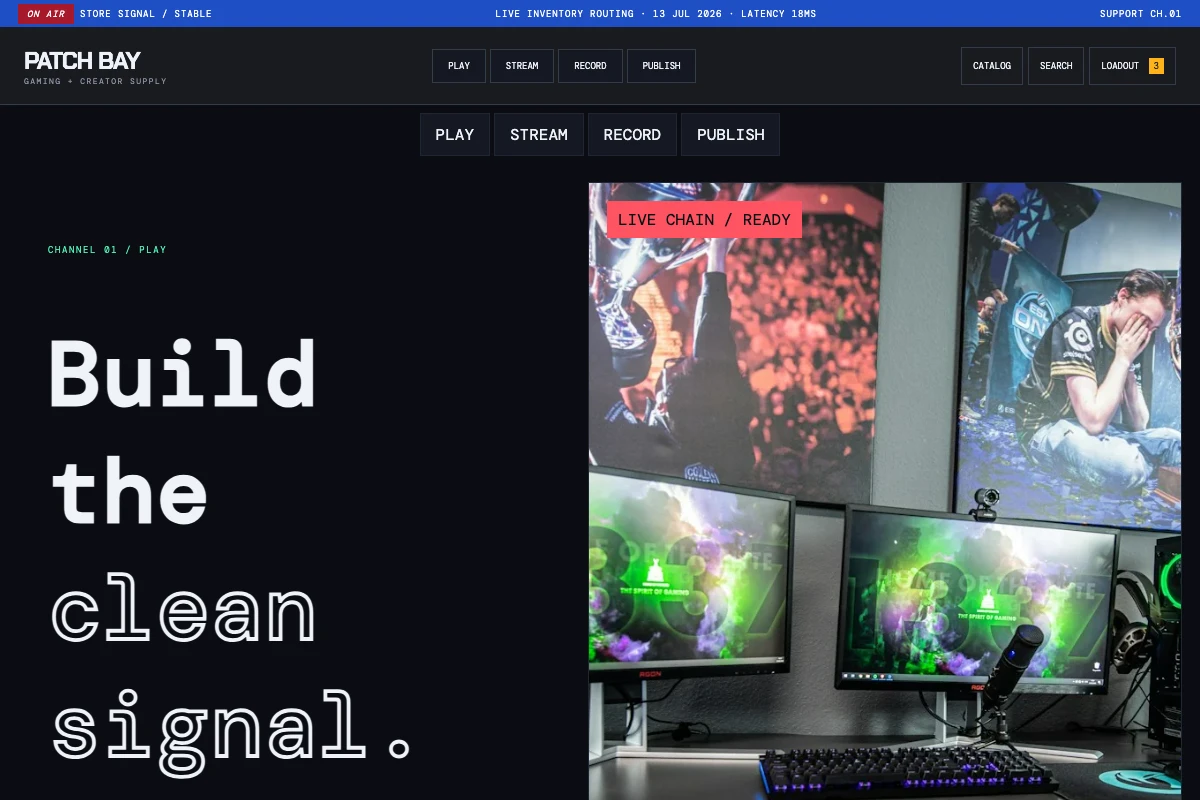
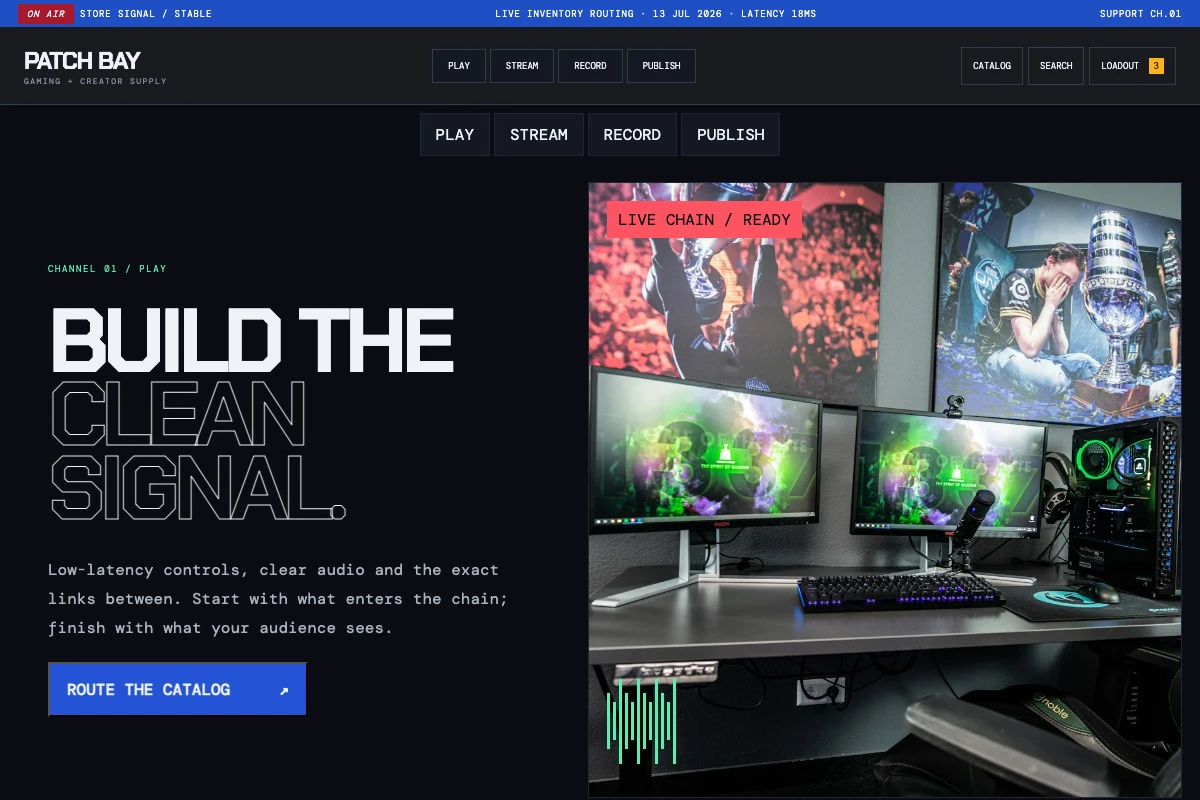
fix(storefront recipes): restore preview parity

diff --git a/app/lib/storefront-recipes/companion-field-guide/bundle.ts b/app/lib/storefront-recipes/companion-field-guide/bundle.ts
@@ -23,7 +23,7 @@ const home = {
   requiredData: [], requiredCapabilities: [],
 };
 
-home.html = `<aside class="species-rail"><a class="rail-brand" data-cd-route="home"><small>Companion supply no. 04</small><strong>Field Guide</strong></a><nav class="species-nav" aria-label="Shop by companion"><p>Choose a care path</p><button class="species-btn" value="all" data-cd-on="click" data-cd-action="collection.filter" data-cd-facet="category"><span class="species-icon">A</span><span>All companions</span><small class="species-count">06</small></button><button class="species-btn" value="dog" data-cd-on="click" data-cd-action="collection.filter" data-cd-facet="category"><span class="species-icon">D</span><span>For dogs</span><small class="species-count">03</small></button><button class="species-btn" value="cat" data-cd-on="click" data-cd-action="collection.filter" data-cd-facet="category"><span class="species-icon">C</span><span>For cats</span><small class="species-count">02</small></button><button class="species-btn" value="senior" data-cd-on="click" data-cd-action="collection.filter" data-cd-facet="tag"><span class="species-icon">7+</span><span>Senior care</span><small class="species-count">02</small></button><button class="species-btn" value="sensitive" data-cd-on="click" data-cd-action="collection.filter" data-cd-facet="tag"><span class="species-icon">S</span><span>Sensitive care</span><small class="species-count">02</small></button></nav><div class="profile-card"><div class="pet-avatar">M</div><b>Milo's guide</b><small>Adult dog · sensitive skin</small><button data-cd-route="account">Update profile</button></div></aside>${home.html}`;
+home.html = `<div class="guide-layout"><aside class="species-rail"><a class="rail-brand" data-cd-route="home"><small>Companion supply no. 04</small><strong>Field Guide</strong></a><nav class="species-nav" aria-label="Shop by companion"><p>Choose a care path</p><button class="species-btn" value="all" data-cd-on="click" data-cd-action="collection.filter" data-cd-facet="category"><span class="species-icon">A</span><span>All companions</span><small class="species-count">06</small></button><button class="species-btn" value="dog" data-cd-on="click" data-cd-action="collection.filter" data-cd-facet="category"><span class="species-icon">D</span><span>For dogs</span><small class="species-count">03</small></button><button class="species-btn" value="cat" data-cd-on="click" data-cd-action="collection.filter" data-cd-facet="category"><span class="species-icon">C</span><span>For cats</span><small class="species-count">02</small></button><button class="species-btn" value="senior" data-cd-on="click" data-cd-action="collection.filter" data-cd-facet="tag"><span class="species-icon">7+</span><span>Senior care</span><small class="species-count">02</small></button><button class="species-btn" value="sensitive" data-cd-on="click" data-cd-action="collection.filter" data-cd-facet="tag"><span class="species-icon">S</span><span>Sensitive care</span><small class="species-count">02</small></button></nav><div class="profile-card"><div class="pet-avatar">M</div><b>Milo's guide</b><small>Adult dog · sensitive skin</small><button data-cd-route="account">Update profile</button></div></aside>${home.html}`;
 home.html = home.html
   .replace(" checked> All", "> All")
   .replaceAll('type="radio" name="kind"', 'type="radio" name="kind" data-cd-on="change" data-cd-action="collection.filter" data-cd-facet="category"')
@@ -35,7 +35,7 @@ home.html = home.html
     '</main><section data-cd-repeat="featured.products"><aside data-cd-key="product.id" data-cd-slot="quickViewCommerce" data-cd-product="product.id" data-cd-host-size="panel" data-cd-theme-tokens="forest orange paper"></aside></section>',
   )
   .replace("<main>", '<div class="page"><main>')
-  .replace('</main><section data-cd-repeat="featured.products">', '</main></div><section data-cd-repeat="featured.products">');
+  .replace('</main><section data-cd-repeat="featured.products">', '</main></div></div><section data-cd-repeat="featured.products">');
 home.css += `.species-rail{position:sticky;top:0;align-self:start;max-height:100dvh;overflow:auto}@media(max-width:900px){.species-rail{position:static;max-height:none}.portrait-paths{scroll-snap-type:x mandatory}.path{scroll-snap-align:start}}@media(prefers-reduced-motion:reduce){.species-rail{position:static}.portrait-paths{scroll-snap-type:none}}`;
 
 home.html = home.html.replace('<h2 class="serif">Portraits of everyday care.</h2>', '<h2 id="sectionHeading" class="serif">Portraits of everyday care.</h2>');
@@ -71,7 +71,7 @@ const checkout = {
 } satisfies RecipeConfig<"companion-field-guide">["surfaces"]["checkout"]["source"];
 
 const config = {
-  templateId: "companion-field-guide", templateVersion: 5,
+  templateId: "companion-field-guide", templateVersion: 6,
   concept: { name: "Companion Field Guide", rationale: "A chaptered guide lets people shop from the care context they recognize.", noveltySignature: ["species chapter rail", "companion profile", "care field records"] },
   designSystem: { displayFontId: "newsreader", bodyFontId: "manrope", tokens: { paper: "#f3f1e8", ink: "#1d2b22", forest: "#234e3b", mint: "#c8dfcc", orange: "#9f3f22", "space-guide": "24px" }, breakpoints: { mobile: 760, wide: 1180 }, iconStyle: "species field marks and dosage fact symbols", motionStyle: "chapter changes and profile feedback with restrained portrait reveals", globalCss: `.guide-copy { overflow-wrap: anywhere }` },
   archetype: { composition: "field-guide", hero: "pet-profile-hero", scroll: "chaptered-guide", cards: "field-notes", iconography: ["species field marks", "dosage fact symbols"] },

diff --git a/app/lib/storefront-bundle/registry.ts b/app/lib/storefront-bundle/registry.ts
@@ -68,13 +68,13 @@ const VERSIONED_ASSET_MANIFESTS_BY_TEMPLATE_ID = {
[2 lines of base64/hex data omitted]
   "soft-chemistry": [...repeatManifest(softChemistryLegacyHero, 3), ...repeatManifest(softChemistryLegacyFull, 4), SOFT_CHEMISTRY_ASSETS, SOFT_CHEMISTRY_ASSETS],
[9 lines of base64/hex data omitted]
   "atelier-nine": repeatManifest(ATELIER_GRID_ASSETS, 4),
 } satisfies Readonly<Record<StoreTemplateId, readonly AssetManifest[]>>;
 
@@ -456,7 +456,7 @@ const RECIPES: readonly VersionedStoreTemplate[] = [
     catalogTerms: ["pet supplement", "pet health", "pet wellness", "dog health", "cat wellness", "pet care", "canine"],
     legacyVibe: "warm",
     generationInstructions: "Use field-guide navigation, pet profiles, species filters, dosage facts, and friendly slab typography.",
-  }, 5),
+  }, 6),
   recipe({
     id: "daily-protocol",
     name: "Daily Protocol",
@@ -528,7 +528,7 @@ const RECIPES: readonly VersionedStoreTemplate[] = [
     catalogTerms: ["gaming gear", "streaming gear", "creator tools", "broadcast", "microphone", "capture card"],
     legacyVibe: "bold",
     generationInstructions: "Use a modular signal-chain builder, rig modes, compatibility graphs, and neon broadcast UI.",
-  }, 6),
+  }, 7),
   recipe({
     id: "atelier-nine",
     name: "Atelier Grid",

diff --git a/app/lib/storefront-recipes/broadcast-patch-bay/bundle.ts b/app/lib/storefront-recipes/broadcast-patch-bay/bundle.ts
@@ -3,7 +3,7 @@ import { defineRecipe, prependRecipeLandmark, sourceTemplateCss, wrapRecipeCompo
 import { BROADCAST_PATCH_BAY_ASSETS } from "./assets";
 
 const config = {
-  templateId: "broadcast-patch-bay", templateVersion: 6,
+  templateId: "broadcast-patch-bay", templateVersion: 7,
   concept: { name: "Broadcast Patch Bay", rationale: "A modular creator storefront that routes the catalog as an input-to-output signal chain.", noveltySignature: ["signal-patch-bay", "rig-mode-routing", "compatibility-modules"] },
   designSystem: {
     displayFontId: "chakra-petch", bodyFontId: "dm-mono",
@@ -84,6 +84,7 @@ config.surfaces.home.source.html = config.surfaces.home.source.html
   .replace('<h2>Your signal chain</h2>', '<h2 id="sectionHeading">Your signal chain</h2>')
   .replace('<small class="label">Loadout patcher / beta</small>', '<div class="label">Loadout patcher / beta</div>')
   .replace('</article></div></div></section></main>', '</article></div><div class="rackTotal"><span>Solo stream / live modules</span><span>Current total</span></div><button class="cta" data-cd-route="cart"><span>Add complete loadout</span><span>＋</span></button></div></section></main>');
+config.surfaces.home.source.css += ".heroCopy h1{margin:30px 0;font-family:var(--font-display);font-weight:700;letter-spacing:-.065em;line-height:.82;text-transform:uppercase}";
 config.surfaces.collection.source.html = `<main class="collection"><header class="collectionHero"><div class="label">Catalog matrix / live stock</div><h1 data-cd-text="collection.title"></h1><p><b data-cd-text="collection.productCount"></b> compatible modules</p></header><div class="filters"><button value="all" data-cd-on="click" data-cd-action="collection.filter" data-cd-facet="category">All roles</button><button value="control" data-cd-on="click" data-cd-action="collection.filter" data-cd-facet="category">Control</button><button value="audio" data-cd-on="click" data-cd-action="collection.filter" data-cd-facet="category">Audio</button><button value="capture" data-cd-on="click" data-cd-action="collection.filter" data-cd-facet="category">Capture</button><button value="light" data-cd-on="click" data-cd-action="collection.filter" data-cd-facet="category">Light</button><button value="output" data-cd-on="click" data-cd-action="collection.filter" data-cd-facet="category">Output</button><select data-cd-on="change" data-cd-action="collection.sort"><option value="featured">Signal order</option><option value="low">Price low</option><option value="high">Price high</option></select></div><div class="productGrid" data-cd-repeat="collection.products"><article data-cd-key="product.id"><img data-cd-src="product.primaryImage" data-cd-alt="product.title"><h2 data-cd-text="product.title"></h2><p data-cd-text="product.description"></p><b data-cd-money="product.price"></b><span data-cd-text="product.availability"></span><a data-cd-route="product" data-cd-param-handle="product.handle">Inspect module</a></article></div><p class="module-empty resilient-copy" data-cd-empty-state>No compatible signal found.</p></main>`;
 
 config.surfaces.collection.source.html = config.surfaces.collection.source.html.replace(

diff --git a/app/lib/storefront-recipes/broadcast-patch-bay/bundle.test.ts b/app/lib/storefront-recipes/broadcast-patch-bay/bundle.test.ts
@@ -23,6 +23,7 @@ describe("broadcast-patch-bay storefront recipe", () => {
     }
     expect(html).toContain("Build the<br><span>clean signal.</span>");
     expect(html).toContain("Low-latency controls, clear audio and the exact links between.");
+    expect(css).toContain(".heroCopy h1{margin:30px 0;font-family:var(--font-display);font-weight:700;letter-spacing:-.065em;line-height:.82;text-transform:uppercase}");
   });
 
   it("preserves the signal-chain, live merchandising, and loadout compositions", () => {
@@ -40,7 +41,7 @@ describe("broadcast-patch-bay storefront recipe", () => {
   it("compiles a modular signal patch bay and complete creator-commerce route matrix", () => {
     const { bundle, config, report } = BROADCAST_PATCH_BAY_RECIPE;
     expect(report).toMatchObject({ profileVersion: 1, ok: true, diagnostics: [] });
-    expect(bundle.source).toEqual({ kind: "recipe", templateId: "broadcast-patch-bay", templateVersion: 6 });
+    expect(bundle.source).toEqual({ kind: "recipe", templateId: "broadcast-patch-bay", templateVersion: 7 });
     expect(config.archetype).toEqual({ composition: "signal-patch-bay", hero: "rig-signal-chain", scroll: "modular-patching", cards: "signal-modules", iconography: ["signal path glyphs", "compatibility port marks"] });
     expect(bundle.designSystem).toMatchObject({ displayFontId: "chakra-petch", bodyFontId: "dm-mono", iconStyle: "signal-path glyphs and compatibility-port marks", motionStyle: "modular patch transitions with reduced-motion static routing" });
     expect(new Set(Object.values(config.surfaces).map((surface) => surface.signature)).size).toBe(7);

diff --git a/app/lib/storefront-recipes/companion-field-guide/bundle.test.ts b/app/lib/storefront-recipes/companion-field-guide/bundle.test.ts
@@ -12,6 +12,8 @@ describe("Companion Field Guide storefront recipe", () => {
     }
     expect(home.html).toContain("Food, support, and everyday tools selected around species");
     expect(home.html).toContain("Portraits of everyday care.");
+    expect(home.html).toContain('<div class="guide-layout"><aside class="species-rail">');
+    expect(home.html).toContain('</aside><div class="page"><main>');
     expect(home.html).toContain('data-cd-repeat="featured.products"');
     expect(home.html).toContain('data-cd-src="product.primaryImage"');
     expect(home.html).toContain('data-cd-text="product.title"');
@@ -29,7 +31,7 @@ describe("Companion Field Guide storefront recipe", () => {
   it("compiles a chaptered pet care guide across the complete commerce contract", () => {
     const { bundle, config, report } = COMPANION_FIELD_GUIDE_RECIPE;
     expect(report).toMatchObject({ ok: true, diagnostics: [] });
-    expect(bundle.source).toEqual({ kind: "recipe", templateId: "companion-field-guide", templateVersion: 5 });
+    expect(bundle.source).toEqual({ kind: "recipe", templateId: "companion-field-guide", templateVersion: 6 });
     expect(config.archetype).toMatchObject({ composition: "field-guide", hero: "pet-profile-hero", scroll: "chaptered-guide", cards: "field-notes" });
     expect(bundle.designSystem).toMatchObject({ displayFontId: "newsreader", bodyFontId: "manrope" });
     expect(new Set(Object.values(config.surfaces).map((surface) => surface.signature)).size).toBe(7);

diff --git a/app/lib/storefront-bundle/registry.test.ts b/app/lib/storefront-bundle/registry.test.ts
@@ -40,8 +40,8 @@ describe("versioned storefront recipe registry", () => {
     for (const recipe of STORE_TEMPLATE_REGISTRY.templates) {
       expect(recipe.activeVersion).toBe(
         recipe.id === "soft-chemistry" ? 9
-          : recipe.id === "custom-bench" ? 7
-          : recipe.id === "commons-index" || recipe.id === "broadcast-patch-bay" ? 6
+          : recipe.id === "custom-bench" || recipe.id === "broadcast-patch-bay" ? 7
+          : recipe.id === "commons-index" || recipe.id === "companion-field-guide" ? 6
           : recipe.id === "atelier-nine" ? 4
           : 5,
       );
